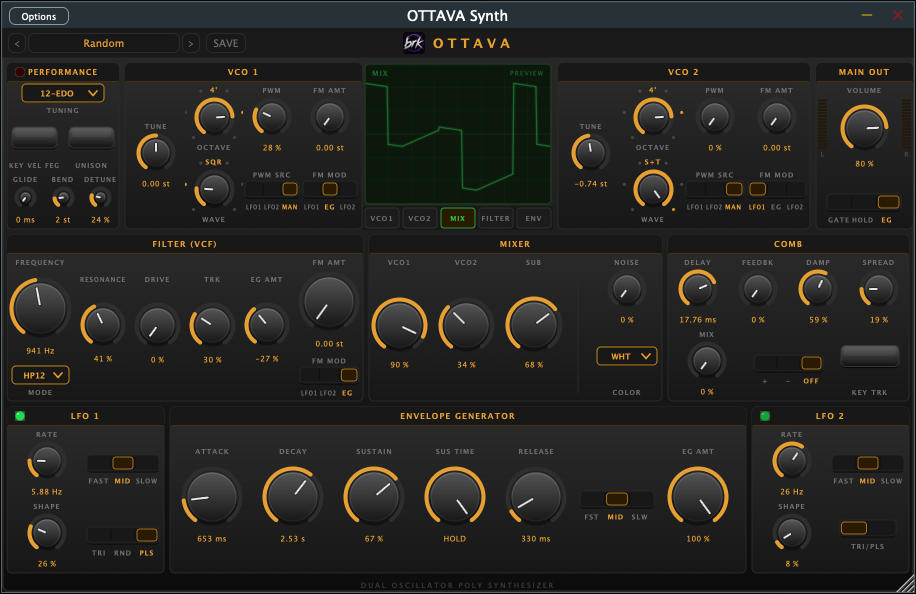
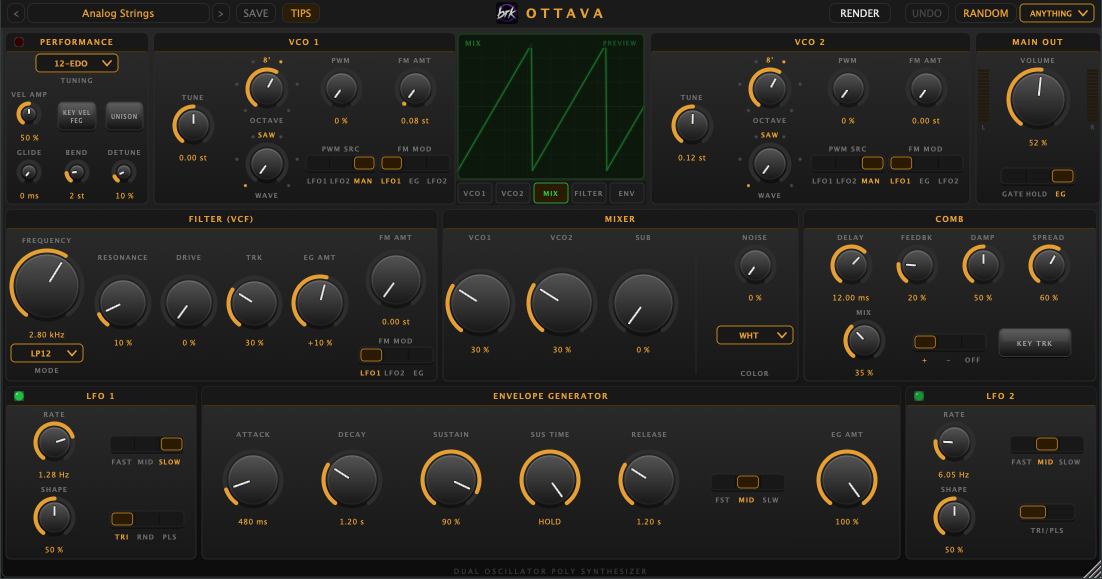
Rewrite the Ottava page around the scope, presets, RENDER and tuning
- New hero: "A synth that shows you what it's doing", with a fresh screenshot
  of the current panel.
- Eight feature cards: scope, 82 presets that teach, random sounds by type,
  one-shot and sample-pack rendering, built-in drum kit, tips, the sound
  engine, and playing features. Drops the "zero-delay feedback filter" claim,
  which isn't accurate for the diode filter.
- Tuning: stays put across presets; four presets built on alternative tunings.
- New "The sounds you make are yours" section (royalty-free, sample packs OK),
  matching the Start Here guide.
- "What you need" requirements; pricing card now says three machines and
  one-time activation. Still "Launching soon" at $29, no end date yet.
- Ottava card on the other pages gets the new description and screenshot.

diff --git a/ottava.html b/ottava.html
@@ -4,7 +4,7 @@
 <meta charset="UTF-8" />
 <meta name="viewport" content="width=device-width, initial-scale=1.0" />
 <title>Ottava – Synthesizer – Brkbeats</title>
-<meta name="description" content="Ottava is a polyphonic synthesizer with analog-modeled oscillators, a zero-delay feedback filter, and built-in microtonal scale support. Standalone, VST3, and AU for Mac and Windows." />
+<meta name="description" content="Ottava is a polyphonic synthesizer that shows you what it's doing: a built-in scope, 82 presets that teach, random sounds by type, one-click rendering of one-shots and sample packs, and microtonal tuning. Standalone, VST3 and AU for Mac and Windows." />
 <link rel="preconnect" href="https://fonts.googleapis.com" />
 <link rel="preconnect" href="https://fonts.gstatic.com" crossorigin />
 <link href="https://fonts.googleapis.com/css2?family=Space+Grotesk:wght@400;500;600;700&family=Inter:wght@400;500&family=Space+Mono&display=swap" rel="stylesheet" />
@@ -24,11 +24,11 @@
 <!-- HERO -->
 <div class="hero">
 <p class="hero-eyebrow">Polyphonic Synthesizer</p>
-<h1>A synth built on <span>oscillators</span>, not presets.</h1>
+<h1>A synth that <span>shows you</span> what it's doing.</h1>
 <p class="hero-sub">
-Ottava pairs analog-modeled oscillators with a zero-delay feedback filter and
-genuinely useful microtonal scale support — for producers who want to shape
-sound, not just browse it.
+Ottava is an 8-voice analog-style synth with a built-in scope, so you can see every change
+you hear. Learn synthesis one knob at a time, roll random sounds by type, and render your
+own one-shots and sample packs in a click.
 </p>
 <div class="hero-actions">
 <a class="btn-primary" href="#buy">Get Notified</a>
@@ -48,8 +48,8 @@ sound, not just browse it.
 <div style="display: flex; justify-content: center; margin: 80px 0 40px 0;">
 <img
 src="assets/ottava.png"
-alt="Ottava polyphonic synthesizer interface"
-style="width: 100%; max-width: 760px; border-radius: 8px; box-shadow: 0 4px 12px rgba(0,0,0,0.5);">
+alt="Ottava synthesizer interface, with the scope in the centre of the panel"
+style="width: 100%; max-width: 960px; border-radius: 8px; box-shadow: 0 4px 12px rgba(0,0,0,0.5);">
 </div>
 
 <div class="divider"></div>
@@ -57,27 +57,47 @@ style="width: 100%; max-width: 760px; border-radius: 8px; box-shadow: 0 4px 12px
 <!-- FEATURES -->
 <section>
 <p class="section-label">What it does</p>
-<h2 class="section-title">Analog modeling, tuned for<br>real playability.</h2>
+<h2 class="section-title">See it, hear it, keep it.</h2>
 <div class="features-grid">
 <div class="feature-card">
-<span class="feature-icon">🌊</span>
-<h3>PolyBLEP Oscillators</h3>
-<p>Band-limited oscillator cores for clean, alias-free waveforms across the full keyboard range.</p>
+<span class="feature-icon">📈</span>
+<h3>A Scope That Teaches</h3>
+<p>Five views: each oscillator on its own, the finished sound, the filter's frequencies with the cutoff marked, and the envelope with a dot following every note. Turn a knob and watch what changes.</p>
+</div>
+<div class="feature-card">
+<span class="feature-icon">💡</span>
+<h3>82 Presets That Point the Way</h3>
+<p>Bass, lead, pad, keys, pluck, FX, drone and a full drum kit, all set to the same loudness. Every preset names the knob to try first, and the Tour walks through the synth one control at a time.</p>
+</div>
+<div class="feature-card">
+<span class="feature-icon">🎲</span>
+<h3>Random Sounds, by Type</h3>
+<p>Click RANDOM, or the scope, for a new patch. Choose a type — kick, snare, hat, bass, pad, FX and more — and every roll stays in that lane. Undo puts the last sound back.</p>
+</div>
+<div class="feature-card">
+<span class="feature-icon">💾</span>
+<h3>Render One-Shots and Sample Packs</h3>
+<p>One click saves the current sound as a WAV, trimmed and normalised. Or render 10, 20 or 50 random kicks at once, each with its preset beside it. 24-bit at 44.1, 48 or 96 kHz.</p>
+</div>
+<div class="feature-card">
+<span class="feature-icon">🥁</span>
+<h3>A Drum Kit Built In</h3>
+<p>Kicks, snare, clap, rim shot, open and closed hats, tambourine, shaker, tom, conga, cowbell, woodblock and crash. Every one is a clean one-shot, tuned and ready to play on C2.</p>
+</div>
+<div class="feature-card">
+<span class="feature-icon">❓</span>
+<h3>Tips on Every Control</h3>
+<p>Rest the pointer on any knob for a line on what it does and what it will sound like. Switch the tips off once you know your way around.</p>
 </div>
 <div class="feature-card">
 <span class="feature-icon">🎛</span>
-<h3>Zero-Delay Feedback Filter</h3>
-<p>An analog-modeled ZDF filter for movement and character that holds up under heavy modulation.</p>
+<h3>Analog-Style Sound</h3>
+<p>Two band-limited oscillators with six waveforms, a sub and four colours of noise. A diode low-pass plus four more filter types, a tunable comb filter, two LFOs, and stereo unison.</p>
 </div>
 <div class="feature-card">
 <span class="feature-icon">🎹</span>
-<h3>8-Voice Polyphony</h3>
-<p>Full ADSR with velocity scaling per voice, plus glide and pitch bend for expressive playing.</p>
-</div>
-<div class="feature-card">
-<span class="feature-icon">🎚</span>
-<h3>Deep MIDI Learn</h3>
-<p>Right-click any control to assign it to a MIDI CC — thread-safe and reliable under fast automation.</p>
+<h3>Plays Like an Instrument</h3>
+<p>Eight voices, velocity, sustain pedal, mod-wheel vibrato and pitch bend. Unison plays legato and glides between overlapping notes. Right-click any control to assign a MIDI knob.</p>
 </div>
 </div>
 </section>
@@ -87,24 +107,42 @@ style="width: 100%; max-width: 760px; border-radius: 8px; box-shadow: 0 4px 12px
 <!-- MICROTONAL -->
 <section>
 <p class="section-label">Tuning</p>
-<h2 class="section-title">Built-in microtonal scale support.</h2>
+<h2 class="section-title">Built-in microtonal tuning.</h2>
 <div class="how-grid">
 <div class="how-step">
 <p class="step-num">SCALE</p>
 <h3>19-EDO</h3>
-<p>19 equal divisions of the octave, for xenharmonic textures beyond standard 12-tone tuning.</p>
+<p>19 equal steps to the octave, for lush thirds and xenharmonic textures beyond standard 12-tone tuning.</p>
 </div>
 <div class="how-step">
 <p class="step-num">SCALE</p>
 <h3>22-EDO</h3>
-<p>22 equal divisions of the octave — a different flavor of xenharmonic tuning, ready out of the box.</p>
+<p>22 equal steps to the octave — a brighter, stranger flavor of xenharmonic tuning, ready out of the box.</p>
 </div>
 <div class="how-step">
 <p class="step-num">SCALE</p>
 <h3>Just Intonation</h3>
-<p>Pure-ratio tuning for drones, pads, and anything that benefits from natural harmonic relationships.</p>
+<p>Pure-ratio tuning: chords in C ring without beating. Made for drones, pads and anything that leans on natural harmonics.</p>
 </div>
 </div>
+<p style="color: var(--muted); font-size: 15px; max-width: 720px; margin-top: 36px;">
+The tuning stays where you put it, so you can play every preset in 19-EDO, 22-EDO or Just Intonation.
+Four presets are built on these tunings to get you started, and the guide shows the chord shapes for each.
+</p>
+</section>
+
+<div class="divider"></div>
+
+<!-- YOUR SOUNDS -->
+<section>
+<p class="section-label">Your sounds</p>
+<h2 class="section-title">The sounds you make are yours.</h2>
+<p style="color: var(--muted); font-size: 15px; max-width: 720px;">
+Anything you record or render with Ottava belongs to you, royalty-free — including sounds made from the
+factory presets and the randomiser. Use them in your own music, or sell and share samples, one-shots and
+sample packs made with it. No credit required. The only thing this doesn't cover is Ottava itself: the plugin
+and its factory preset files.
+</p>
 </section>
 
 <div class="divider"></div>
@@ -117,24 +155,29 @@ style="width: 100%; max-width: 760px; border-radius: 8px; box-shadow: 0 4px 12px
 <div class="format-card">
 <span class="fmt-icon">🖥</span>
 <h3>Standalone — Mac</h3>
-<p>No DAW required. Play and sound-design on its own.</p>
+<p>No DAW required. Play, learn and render on its own.</p>
 </div>
 <div class="format-card">
 <span class="fmt-icon">🖥</span>
 <h3>Standalone — Windows</h3>
-<p>Full Windows 10/11 support out of the box.</p>
+<p>For 64-bit Windows 10 and 11.</p>
 </div>
 <div class="format-card">
 <span class="fmt-icon">🔌</span>
 <h3>VST3 — Mac & Windows</h3>
-<p>Works in any VST3-compatible DAW. Full automation support.</p>
+<p>Works in any VST3-compatible DAW. Every control is automatable.</p>
 </div>
 <div class="format-card">
 <span class="fmt-icon">🍎</span>
 <h3>AU — Mac</h3>
-<p>Native Audio Unit for Logic Pro with full MIDI routing.</p>
+<p>Native Audio Unit instrument for Logic Pro, with the factory presets in Logic's own preset menu.</p>
 </div>
 </div>
+<p style="color: var(--muted); font-size: 15px; max-width: 720px; margin-top: 36px;">
+<strong style="color: var(--text);">What you need:</strong> <strong style="color: var(--text);">macOS 12 Monterey or later</strong>
+on Intel or Apple Silicon (the Mac build is universal), or <strong style="color: var(--text);">64-bit Windows 10 or later</strong>.
+A MIDI keyboard is recommended but not required. An internet connection is needed once, to activate.
+</p>
 </section>
 
 <div class="divider"></div>
@@ -150,8 +193,11 @@ style="width: 100%; max-width: 760px; border-radius: 8px; box-shadow: 0 4px 12px
 <li>Standalone App for Mac &amp; Windows</li>
 <li>VST3 Plugin for Mac &amp; Windows</li>
 <li>Audio Unit (AU) Plugin for Mac</li>
-<li>License key valid for one machine</li>
+<li>82 factory presets, including a drum kit</li>
+<li>License key valid for three machines</li>
+<li>One activation, then never again — no periodic checks</li>
 <li>Free updates for life</li>
+<li>PDF guide included</li>
 </ul>
 <a class="btn-notify-full" href="mailto:support@brkbeats.dev?subject=Notify me when Ottava launches">Notify Me at Launch</a>
 <p class="pricing-note">Ottava is in final development. Drop your email and I'll let you know the moment it's live.</p>

diff --git a/index.html b/index.html
@@ -68,7 +68,7 @@ the kind of tools I couldn't find, so I made them myself.
 <div class="product-body">
 <p class="product-eyebrow">Synthesizer</p>
 <h3>Ottava</h3>
-<p>A polyphonic synth built around analog-modeled oscillators and filtering, with microtonal scale support baked in.</p>
+<p>A polyphonic synth that shows you what it's doing: a built-in scope, 82 presets that teach, one-click one-shot rendering, and microtonal tuning.</p>
 <div class="product-footer">
 <span class="product-price">Coming soon</span>
 <span class="product-cta">Learn More →</span>

diff --git a/overlook.html b/overlook.html
@@ -254,7 +254,7 @@ Control beyond the box.
 <div class="product-body">
 <p class="product-eyebrow">Synthesizer</p>
 <h3>Ottava</h3>
-<p>A polyphonic synth built around analog-modeled oscillators and filtering, with microtonal scale support baked in.</p>
+<p>A polyphonic synth that shows you what it's doing: a built-in scope, 82 presets that teach, one-click one-shot rendering, and microtonal tuning.</p>
 <div class="product-footer">
 <span class="product-price">Coming soon</span>
 <span class="product-cta">Learn More →</span>

diff --git a/resonant-filterbank.html b/resonant-filterbank.html
@@ -184,7 +184,7 @@ style="width: 100%; max-width: 760px; border-radius: 8px; box-shadow: 0 4px 12px
 <div class="product-body">
 <p class="product-eyebrow">Synthesizer</p>
 <h3>Ottava</h3>
-<p>A polyphonic synth with analog-modeled oscillators and microtonal scale support.</p>
+<p>A polyphonic synth with a built-in scope, 82 teaching presets, one-shot rendering and microtonal tuning.</p>
 <div class="product-footer">
 <span class="product-price">Coming soon</span>
 <span class="product-cta">Learn More →</span>

diff --git a/sp404-effects-controller.html b/sp404-effects-controller.html
@@ -258,7 +258,7 @@ Klangfeld Labs. Effects, automation, LFOs, presets and tempo sync all work along
 <div class="product-body">
 <p class="product-eyebrow">Synthesizer</p>
 <h3>Ottava</h3>
-<p>A polyphonic synth with analog-modeled oscillators and microtonal scale support.</p>
+<p>A polyphonic synth with a built-in scope, 82 teaching presets, one-shot rendering and microtonal tuning.</p>
 <div class="product-footer">
 <span class="product-price">Coming soon</span>
 <span class="product-cta">Learn More →</span>
